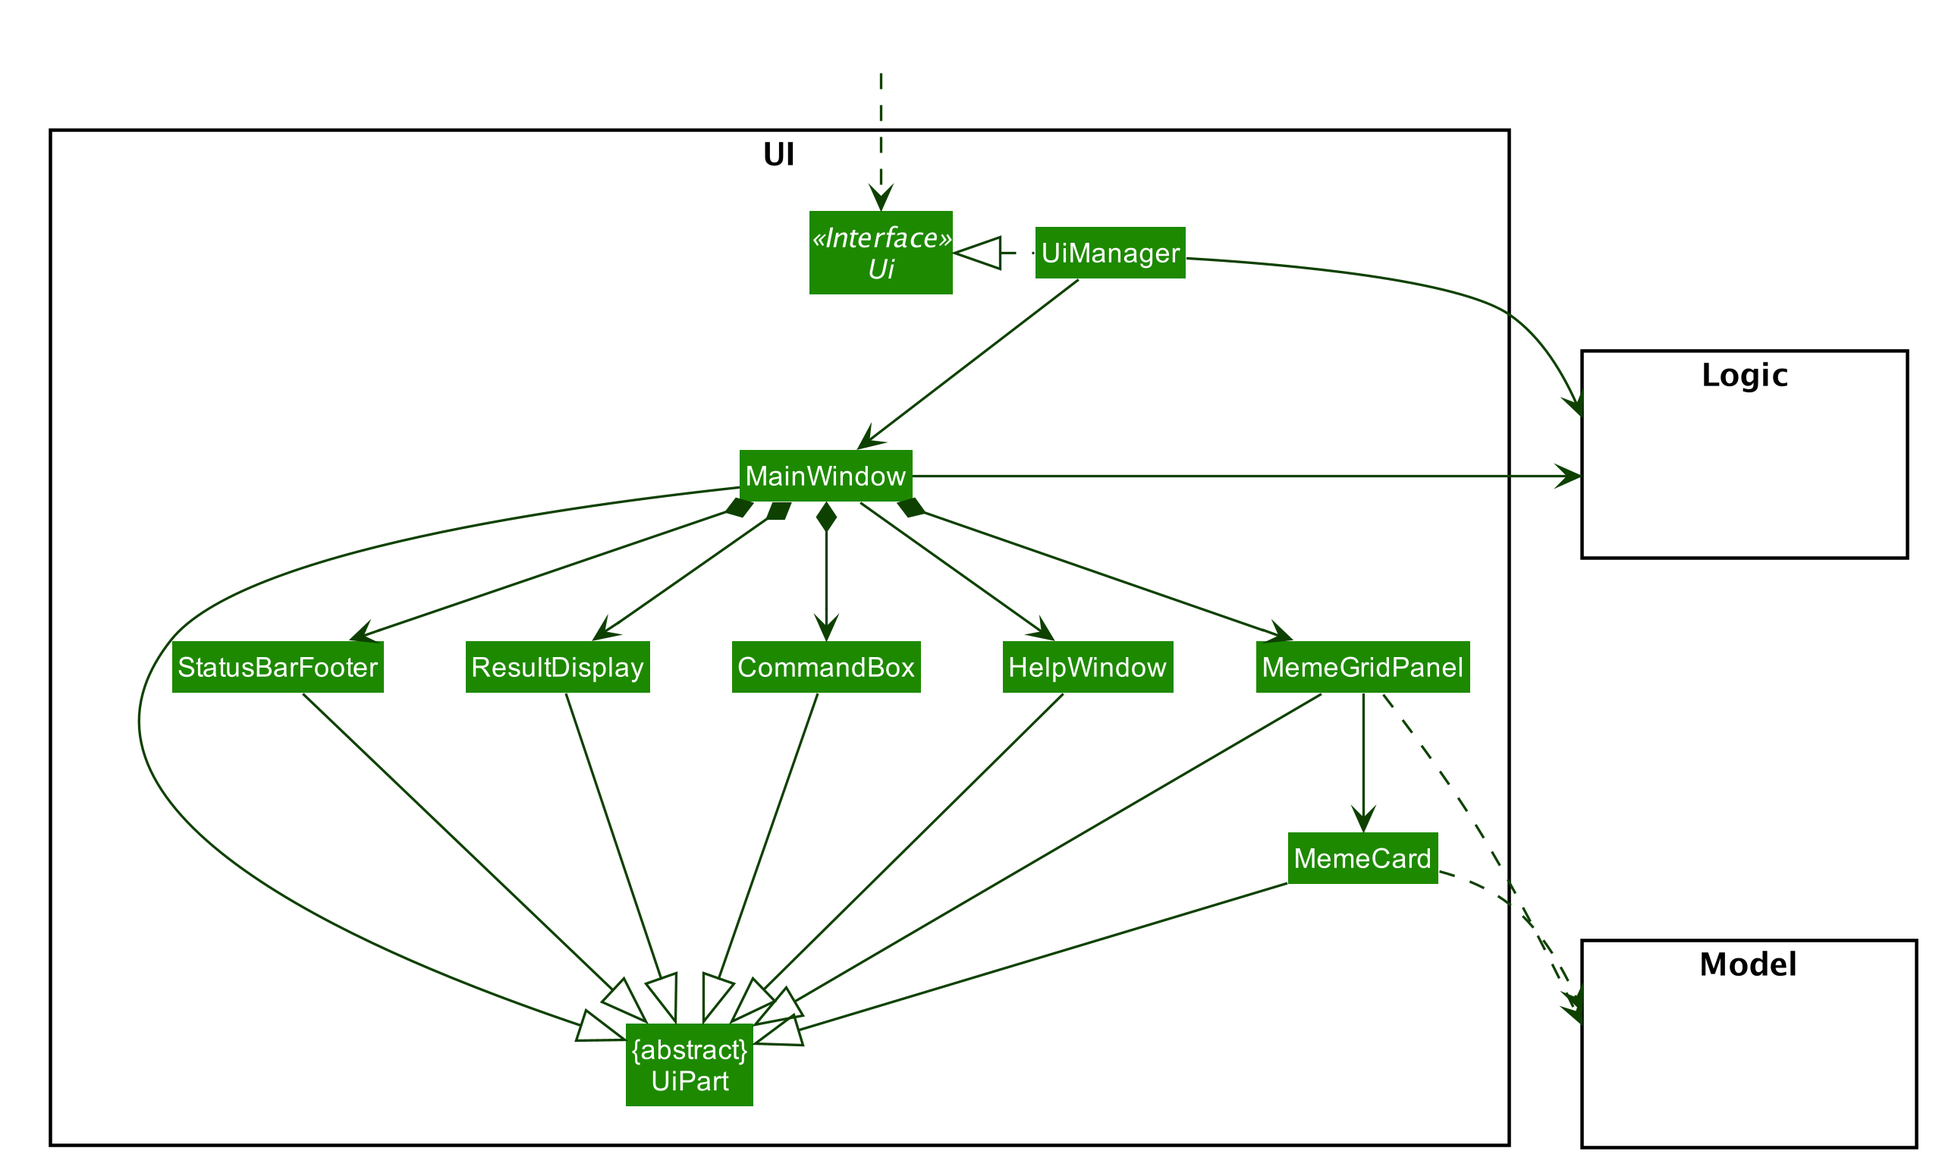
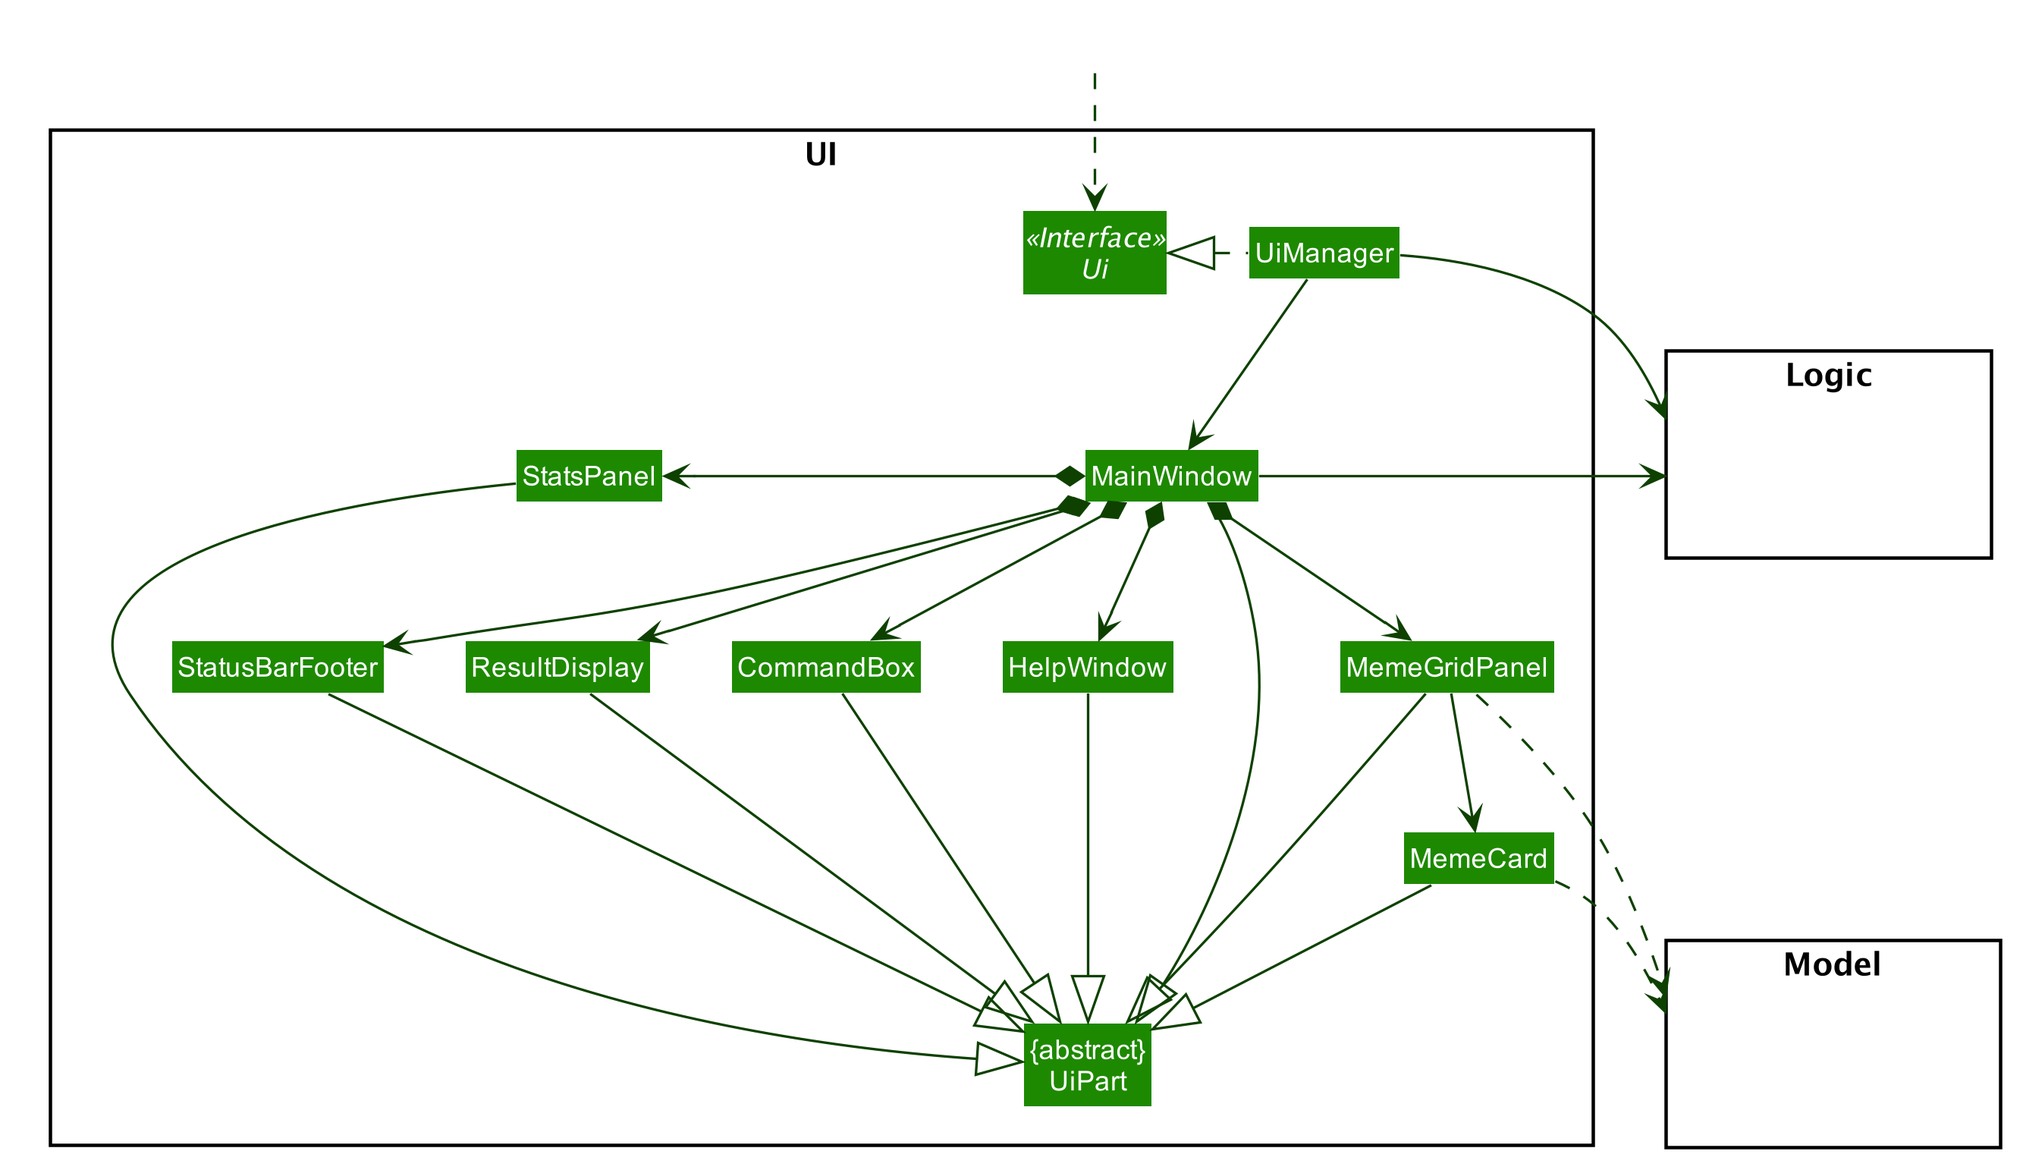
Rebuild pages at 5d0426de350eee4051e16e2877d066af6d5de455

diff --git a/DeveloperGuide.html b/DeveloperGuide.html
@@ -25,12 +25,13 @@
 <li><a href="#undo-redo-feature">3.1. Undo/Redo feature</a></li>
 <li><a href="#templates-feature">3.2. Templates feature</a></li>
 <li><a href="#statistics-feature-1-like-meme">3.3. Statistics feature 1: Like Meme</a></li>
-<li><a href="#export-import-feature">3.4. Export/Import feature</a></li>
-<li><a href="#command-suggestion-feature">3.5. Command Suggestion Feature</a></li>
-<li><a href="#tabs-feature">3.6. Tabs feature</a></li>
-<li><a href="#proposed-data-encryption">3.7. [Proposed] Data Encryption</a></li>
-<li><a href="#logging">3.8. Logging</a></li>
-<li><a href="#Implementation-Configuration">3.9. Configuration</a></li>
+<li><a href="#statistics-feature-2-graphic-display">3.4. Statistics feature 2: Graphic display</a></li>
+<li><a href="#export-import-feature">3.5. Export/Import feature</a></li>
+<li><a href="#command-suggestion-feature">3.6. Command Suggestion Feature</a></li>
+<li><a href="#tabs-feature">3.7. Tabs feature</a></li>
+<li><a href="#proposed-data-encryption">3.8. [Proposed] Data Encryption</a></li>
+<li><a href="#logging">3.9. Logging</a></li>
+<li><a href="#Implementation-Configuration">3.10. Configuration</a></li>
 </ul>
 </li>
 <li><a href="#documentation">4. Documentation</a></li>
@@ -873,8 +874,7 @@ Updates to the like count of any memes inside the currently displayed memes will
 </div>
 </div>
 <div class="paragraph">
-<p>In the storage component, LikeData is stored in a similar fashion as <code>Weme</code>,
-whereas the LikeData is stored as json file.</p>
+<p>In the storage component, LikeData is stored under JsonSerializableStats as a map.</p>
 </div>
 <div class="paragraph">
 <p>The following activity diagram summarizes the meme liking process:</p>
@@ -935,14 +935,71 @@ Also, it looks somewhat out of place in <code>Model</code> as alternative 1 seem
 </div>
 </div>
 <div class="sect2">
-<h3 id="export-import-feature"><a class="link" href="#export-import-feature">3.4. Export/Import feature</a></h3>
+<h3 id="statistics-feature-2-graphic-display"><a class="link" href="#statistics-feature-2-graphic-display">3.4. Statistics feature 2: Graphic display</a></h3>
+<div class="paragraph">
+<p>This feature displays the statistics of the App. In the current version, it displays two types of data:
+tags organized by the number of memes under them and by the like counts of the memes under them.
+The graphics are embedded in the statistics panel in Weme.</p>
+</div>
+<div class="sect3">
+<h4 id="current-implementation-4"><a class="link" href="#current-implementation-4">3.4.1. Current Implementation</a></h4>
+<div class="paragraph">
+<p>The statistics data is collated by a TagManager in the Statistics package.</p>
+</div>
+<div class="imageblock">
+<div class="content">
+<img src="images/modelClassDiagram.png" alt="modelClassDiagram">
+</div>
+</div>
+<div class="paragraph">
+<p>It parses the current MemeList to collate all the tags and generate either a list of <code>TagWithCount</code> or <code>TagWithLike</code>.
+The <code>UI</code> passes the current <code>MemeList</code> and <code>Stats</code> interface into the panel, where the tag collation information can be
+extracted in runtime.</p>
+</div>
+</div>
+<div class="sect3">
+<h4 id="design-consideration"><a class="link" href="#design-consideration">3.4.2. Design Consideration</a></h4>
+<div class="ulist">
+<ul>
+<li>
+<p><strong>Alternative 1:</strong> Use a TagManager class (Current implementation)</p>
+<div class="ulist">
+<ul>
+<li>
+<p>Pros: Able to store <code>Tag</code> information for future use. Hard to morph it as the class grows bigger.</p>
+</li>
+<li>
+<p>Cons: The Manager class behaves like a Util class.</p>
+</li>
+</ul>
+</div>
+</li>
+<li>
+<p><strong>Alternative 2:</strong> Use a TagUtil class</p>
+<div class="ulist">
+<ul>
+<li>
+<p>Pros: At the moment the class behaves like a Util class, not storing any information that is being used later.</p>
+</li>
+<li>
+<p>Cons: Lack extensibility for future statistics use.</p>
+</li>
+</ul>
+</div>
+</li>
+</ul>
+</div>
+</div>
+</div>
+<div class="sect2">
+<h3 id="export-import-feature"><a class="link" href="#export-import-feature">3.5. Export/Import feature</a></h3>
 <div class="paragraph">
 <p>This feature allows the user to do exporting and importing of memes using their respective staging areas as
 intermediate platforms. This allows the user to both load memes into the application from their local directory,
 and also export memes from the application to their local directory.</p>
 </div>
 <div class="sect3">
-<h4 id="export"><a class="link" href="#export">3.4.1. Export</a></h4>
+<h4 id="export"><a class="link" href="#export">3.5.1. Export</a></h4>
 <div class="paragraph">
 <p>The user may not want to export everything in the Meme storage to a directory. The Stage command
 functionality introduces flexibility for the user to stage and shortlist which memes he wants to export,
@@ -963,7 +1020,7 @@ following sequence diagram illustrates the execution of the <code>Stage Command<
 </div>
 </div>
 <div class="sect3">
-<h4 id="import"><a class="link" href="#import">3.4.2. Import</a></h4>
+<h4 id="import"><a class="link" href="#import">3.5.2. Import</a></h4>
 <div class="paragraph">
 <p>The user can use the <code>Load Command</code> to batch load all memes in the correct picture format into the import
 context. However, the memes are not immediately imported to storage because there may be memes in the directory
@@ -975,7 +1032,7 @@ by clearing the memes in the import context.</p>
 </div>
 </div>
 <div class="sect3">
-<h4 id="current-implementation-4"><a class="link" href="#current-implementation-4">3.4.3. Current Implementation</a></h4>
+<h4 id="current-implementation-5"><a class="link" href="#current-implementation-5">3.5.3. Current Implementation</a></h4>
 <div class="paragraph">
 <p>Internally, <code>Weme</code> uses two <code>UniqueMemeList</code> to store memes that are to be imported or exported.
 While the user is selecting which meme to stage, the user should have a visual reference all the existing memes.
@@ -1011,7 +1068,7 @@ so that the user can continue importing the memes in a new directory.</p>
 </div>
 </div>
 <div class="sect3">
-<h4 id="design-consideration"><a class="link" href="#design-consideration">3.4.4. Design Consideration</a></h4>
+<h4 id="design-consideration-2"><a class="link" href="#design-consideration-2">3.5.4. Design Consideration</a></h4>
 <div class="sect4">
 <h5 id="aspect-tab-for-export-and-import-feature"><a class="link" href="#aspect-tab-for-export-and-import-feature">Aspect: Tab for Export and Import feature</a></h5>
 <div class="ulist">
@@ -1051,7 +1108,7 @@ navigating between import and export mode to be less subtle.</p>
 </div>
 </div>
 <div class="sect2">
-<h3 id="command-suggestion-feature"><a class="link" href="#command-suggestion-feature">3.5. Command Suggestion Feature</a></h3>
+<h3 id="command-suggestion-feature"><a class="link" href="#command-suggestion-feature">3.6. Command Suggestion Feature</a></h3>
 <div class="paragraph">
 <p>Users can be forgetful about the command format and sometimes unsure of what arguments to supply.
 Auto-suggestion of command arguments while the user keys in inputs can be very helpful to provide user hints.
@@ -1062,7 +1119,7 @@ The user can also use the "TAB" key to auto complete the command word/argument, 
 replace the current command word/argument in user input.</p>
 </div>
 <div class="sect3">
-<h4 id="current-implementation-5"><a class="link" href="#current-implementation-5">3.5.1. Current Implementation</a></h4>
+<h4 id="current-implementation-6"><a class="link" href="#current-implementation-6">3.6.1. Current Implementation</a></h4>
 <div class="paragraph">
 <p>The command suggestions is achieved using a package of prompter files.
 For each parser, there will a corresponding prompter to process the current user input and return the <code>CommandPrompt</code> for display in <code>ResultBox</code>.
@@ -1077,7 +1134,7 @@ Step 6: The <code>CommandBox</code> listens to the "TAB" key press, and replace 
 </div>
 </div>
 <div class="sect3">
-<h4 id="design-considerations-4"><a class="link" href="#design-considerations-4">3.5.2. Design Considerations</a></h4>
+<h4 id="design-considerations-4"><a class="link" href="#design-considerations-4">3.6.2. Design Considerations</a></h4>
 <div class="sect4">
 <h5 id="aspect-how-to-process-the-input-and-produce-the-command-prompt"><a class="link" href="#aspect-how-to-process-the-input-and-produce-the-command-prompt">Aspect: How to process the input and produce the command prompt</a></h5>
 <div class="ulist">
@@ -1147,7 +1204,7 @@ Step 6: The <code>CommandBox</code> listens to the "TAB" key press, and replace 
 </div>
 </div>
 <div class="sect2">
-<h3 id="tabs-feature"><a class="link" href="#tabs-feature">3.6. Tabs feature</a></h3>
+<h3 id="tabs-feature"><a class="link" href="#tabs-feature">3.7. Tabs feature</a></h3>
 <div class="paragraph">
 <p>Most features in Weme can be logically grouped together.
 For example, listing memes and viewing a single meme forms a group,
@@ -1157,7 +1214,7 @@ As such, it seems logical for us to separate distinct groups of features at the 
 We achieve this by putting each group of features into a tab.</p>
 </div>
 <div class="sect3">
-<h4 id="current-implementation-6"><a class="link" href="#current-implementation-6">3.6.1. Current implementation</a></h4>
+<h4 id="current-implementation-7"><a class="link" href="#current-implementation-7">3.7.1. Current implementation</a></h4>
 <div class="paragraph">
 <p>As discussed earlier, <code>ModelManager</code> stores <code>ModelContext</code> which keeps track of the current context Weme is in.
 Within each context, Weme exposes different commands and has different behaviors.</p>
@@ -1288,7 +1345,7 @@ For example, both <strong>Templates</strong> context for viewing templates and <
 </div>
 </div>
 <div class="sect3">
-<h4 id="design-considerations-5"><a class="link" href="#design-considerations-5">3.6.2. Design Considerations</a></h4>
+<h4 id="design-considerations-5"><a class="link" href="#design-considerations-5">3.7.2. Design Considerations</a></h4>
 <div class="sect4">
 <h5 id="aspect-how-to-switch-tabs"><a class="link" href="#aspect-how-to-switch-tabs">Aspect: How to switch tabs</a></h5>
 <div class="ulist">
@@ -1358,20 +1415,20 @@ For example, both <strong>Templates</strong> context for viewing templates and <
 </div>
 </div>
 <div class="sect2">
-<h3 id="proposed-data-encryption"><a class="link" href="#proposed-data-encryption">3.7. [Proposed] Data Encryption</a></h3>
+<h3 id="proposed-data-encryption"><a class="link" href="#proposed-data-encryption">3.8. [Proposed] Data Encryption</a></h3>
 <div class="paragraph">
 <p><em>{Explain here how the data encryption feature will be implemented}</em></p>
 </div>
 </div>
 <div class="sect2">
-<h3 id="logging"><a class="link" href="#logging">3.8. Logging</a></h3>
+<h3 id="logging"><a class="link" href="#logging">3.9. Logging</a></h3>
 <div class="paragraph">
 <p>We are using <code>java.util.logging</code> package for logging. The <code>LogsCenter</code> class is used to manage the logging levels and logging destinations.</p>
 </div>
 <div class="ulist">
 <ul>
 <li>
-<p>The logging level can be controlled using the <code>logLevel</code> setting in the configuration file (See <a href="#Implementation-Configuration">Section 3.9, &#8220;Configuration&#8221;</a>)</p>
+<p>The logging level can be controlled using the <code>logLevel</code> setting in the configuration file (See <a href="#Implementation-Configuration">Section 3.10, &#8220;Configuration&#8221;</a>)</p>
 </li>
 <li>
 <p>The <code>Logger</code> for a class can be obtained using <code>LogsCenter.getLogger(Class)</code> which will log messages according to the specified logging level</p>
@@ -1402,7 +1459,7 @@ For example, both <strong>Templates</strong> context for viewing templates and <
 </div>
 </div>
 <div class="sect2">
-<h3 id="Implementation-Configuration"><a class="link" href="#Implementation-Configuration">3.9. Configuration</a></h3>
+<h3 id="Implementation-Configuration"><a class="link" href="#Implementation-Configuration">3.10. Configuration</a></h3>
 <div class="paragraph">
 <p>Certain properties of the application can be controlled (e.g user prefs file location, logging level) through the configuration file (default: <code>config.json</code>).</p>
 </div>
@@ -2056,4 +2113,4 @@ Expected: Similar to previous.</p>
 </div>
 </div>
 </div>
-</div></div><div id="footer"><div class="container"><div id="footer-text">Last updated 2019-10-30 15:40:50 UTC</div></div></div></body></html>
+</div></div><div id="footer"><div class="container"><div id="footer-text">Last updated 2019-10-30 15:52:08 UTC</div></div></div></body></html>

diff --git a/UserGuide.html b/UserGuide.html
@@ -271,6 +271,34 @@ Returns memes related to <code>pikachu</code> and <code>pikachu faceless</code><
 </ul>
 </div>
 </div>
+<div class="sect3">
+<h4 id="like-meme-code-like-code"><a class="link" href="#like-meme-code-like-code">3.2.6. Like - meme : <code>like</code></a></h4>
+<div class="paragraph">
+<p>Like a meme by the index. Format: <code>like 1</code></p>
+</div>
+<div class="sidebarblock">
+<div class="content">
+<div class="paragraph">
+<p>You could use arrow key UP to quick like a meme at the given index.<br>
+To do this, you have to key in the full command <code>like [INDEX]</code> then press arrow key.<br>
+You can also use arrow key LEFT and RIGHT to toggle the index from 1 to a higher index.</p>
+</div>
+</div>
+</div>
+</div>
+<div class="sect3">
+<h4 id="dislike-meme-code-dislike-code"><a class="link" href="#dislike-meme-code-dislike-code">3.2.7. Dislike - meme : <code>dislike</code></a></h4>
+<div class="paragraph">
+<p>Dislike a meme by the index. Format: <code>dislike 1</code></p>
+</div>
+<div class="sidebarblock">
+<div class="content">
+<div class="paragraph">
+<p>Same as like, dislike also allows arrow key operations.</p>
+</div>
+</div>
+</div>
+</div>
 </div>
 <div class="sect2">
 <h3 id="templates"><a class="link" href="#templates">3.3. Templates</a></h3>
@@ -571,9 +599,9 @@ Examples:</p>
 <div class="sect2">
 <h3 id="statistics"><a class="link" href="#statistics">3.6. Statistics</a></h3>
 <div class="paragraph">
-<p>View stats - <code>stats</code><br>
-View various statistics about the memes such as views by tags and meme, search frequency and most used templates.<br>
-Format: <code>stats</code></p>
+<p>View stats - <code>tab stats</code><br>
+View various statistics about the memes such as tags and likes count by tags, and most used templates.<br>
+Format: <code>tab stats</code></p>
 </div>
 </div>
 <div class="sect2">
@@ -699,4 +727,4 @@ e.g. <code>meme add p/~/Downloads/dgirl_oof.jpg n/Disaster Girl t/Funny</code></
 </ul>
 </div>
 </div>
-</div></div><div id="footer"><div class="container"><div id="footer-text">Last updated 2019-10-30 15:40:50 UTC</div></div></div></body></html>
+</div></div><div id="footer"><div class="container"><div id="footer-text">Last updated 2019-10-30 15:52:08 UTC</div></div></div></body></html>

diff --git a/tutorials/RemovingFields.html b/tutorials/RemovingFields.html
@@ -175,4 +175,4 @@ While keeping the <code>address</code> field in the json files does not cause th
 <p>You can go through each individual <code>json</code> file and manually remove the <code>address</code> field.</p>
 </div>
 </div>
-</div></div><div id="footer"><div class="container"><div id="footer-text">Last updated 2019-10-30 15:40:51 UTC</div></div></div></body></html>
+</div></div><div id="footer"><div class="container"><div id="footer-text">Last updated 2019-10-30 15:52:08 UTC</div></div></div></body></html>

diff --git a/tutorials/AddRemark.html b/tutorials/AddRemark.html
@@ -616,4 +616,4 @@ In this case, <code>CommandTestUtil#assertCommandSuccess</code> is the best fit 
 <p>This concludes the tutorial for adding a new <code>Command</code> to AddressBook.</p>
 </div>
 </div>
-</div></div><div id="footer"><div class="container"><div id="footer-text">Last updated 2019-10-30 15:40:51 UTC</div></div></div></body></html>
+</div></div><div id="footer"><div class="container"><div id="footer-text">Last updated 2019-10-30 15:52:08 UTC</div></div></div></body></html>

diff --git a/Testing.html b/Testing.html
@@ -90,4 +90,4 @@ e.g. <code>seedu.weme.logic.LogicManagerTest</code></p>
 <div class="title">Figure 1. <code>Accessibility</code> permission is granted to <code>IntelliJ IDEA</code></div>
 </div>
 </div>
-</div></div><div id="footer"><div class="container"><div id="footer-text">Last updated 2019-10-30 15:40:50 UTC</div></div></div></body></html>
+</div></div><div id="footer"><div class="container"><div id="footer-text">Last updated 2019-10-30 15:52:08 UTC</div></div></div></body></html>

diff --git a/team/LivingOnEdge.html b/team/LivingOnEdge.html
@@ -557,4 +557,4 @@ If the <code>stateIndex</code> is at index <code>versionedWemeStates.size() - 1<
 <p><em>{Optionally, you may include other projects in your portfolio.}</em></p>
 </div>
 </div>
-</div></div><div id="footer"><div class="container"><div id="footer-text">Last updated 2019-10-30 15:40:51 UTC</div></div></div></body></html>
+</div></div><div id="footer"><div class="container"><div id="footer-text">Last updated 2019-10-30 15:52:08 UTC</div></div></div></body></html>

diff --git a/team/cutieprobe.html b/team/cutieprobe.html
@@ -557,4 +557,4 @@ If the <code>stateIndex</code> is at index <code>versionedWemeStates.size() - 1<
 <p><em>{Optionally, you may include other projects in your portfolio.}</em></p>
 </div>
 </div>
-</div></div><div id="footer"><div class="container"><div id="footer-text">Last updated 2019-10-30 15:40:51 UTC</div></div></div></body></html>
+</div></div><div id="footer"><div class="container"><div id="footer-text">Last updated 2019-10-30 15:52:08 UTC</div></div></div></body></html>

diff --git a/team/gary-lgy.html b/team/gary-lgy.html
@@ -557,4 +557,4 @@ If the <code>stateIndex</code> is at index <code>versionedWemeStates.size() - 1<
 <p><em>{Optionally, you may include other projects in your portfolio.}</em></p>
 </div>
 </div>
-</div></div><div id="footer"><div class="container"><div id="footer-text">Last updated 2019-10-30 15:40:51 UTC</div></div></div></body></html>
+</div></div><div id="footer"><div class="container"><div id="footer-text">Last updated 2019-10-30 15:52:08 UTC</div></div></div></body></html>

diff --git a/team/jonchan51.html b/team/jonchan51.html
@@ -557,4 +557,4 @@ If the <code>stateIndex</code> is at index <code>versionedWemeStates.size() - 1<
 <p><em>{Optionally, you may include other projects in your portfolio.}</em></p>
 </div>
 </div>
-</div></div><div id="footer"><div class="container"><div id="footer-text">Last updated 2019-10-30 15:40:51 UTC</div></div></div></body></html>
+</div></div><div id="footer"><div class="container"><div id="footer-text">Last updated 2019-10-30 15:52:08 UTC</div></div></div></body></html>

diff --git a/team/moziliar.html b/team/moziliar.html
@@ -557,4 +557,4 @@ If the <code>stateIndex</code> is at index <code>versionedWemeStates.size() - 1<
 <p><em>{Optionally, you may include other projects in your portfolio.}</em></p>
 </div>
 </div>
-</div></div><div id="footer"><div class="container"><div id="footer-text">Last updated 2019-10-30 15:40:51 UTC</div></div></div></body></html>
+</div></div><div id="footer"><div class="container"><div id="footer-text">Last updated 2019-10-30 15:52:08 UTC</div></div></div></body></html>

diff --git a/ContactUs.html b/ContactUs.html
@@ -12,4 +12,4 @@
 <p><strong>Email us</strong> : You can also reach us at <code>cs2103t163@gmail.com</code></p>
 </li>
 </ul>
-</div></div><div id="footer"><div class="container"><div id="footer-text">Last updated 2019-10-30 15:40:50 UTC</div></div></div></body></html>
+</div></div><div id="footer"><div class="container"><div id="footer-text">Last updated 2019-10-30 15:52:08 UTC</div></div></div></body></html>

diff --git a/LearningOutcomes.html b/LearningOutcomes.html
@@ -474,4 +474,4 @@ of storages, but different number of storages (e.g. save to both a text file and
 </div>
 </div>
 </div>
-</div></div><div id="footer"><div class="container"><div id="footer-text">Last updated 2019-10-30 15:40:50 UTC</div></div></div></body></html>
+</div></div><div id="footer"><div class="container"><div id="footer-text">Last updated 2019-10-30 15:52:08 UTC</div></div></div></body></html>
